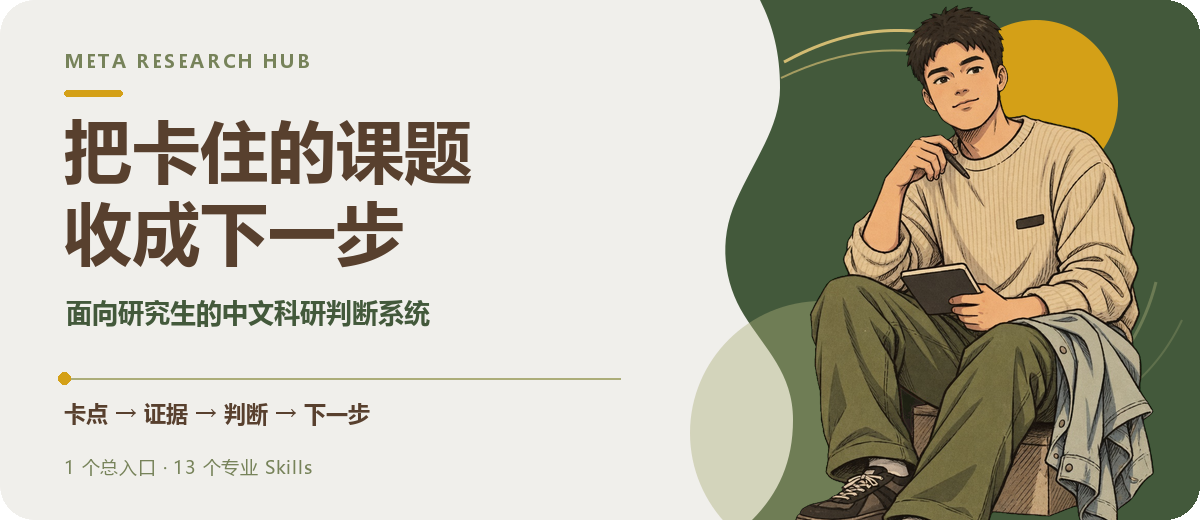
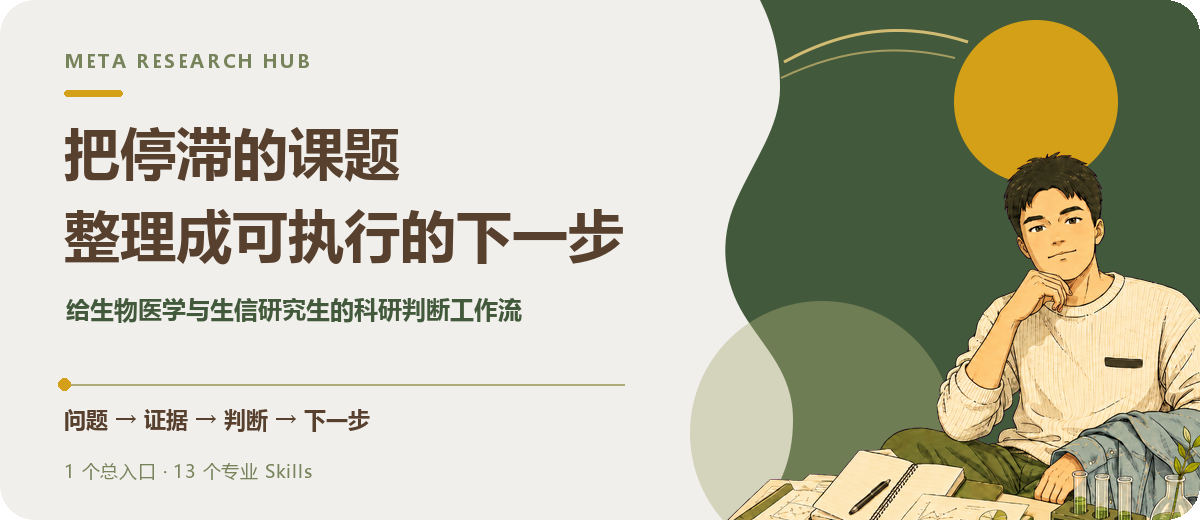
docs: rewrite homepage copy and refresh hero assets
Replace empty single-character homepage verbs, refresh hero from web ChatGPT, and keep workflow path as 问题 / 证据 / 判断 / 下一步.

diff --git a/README.md b/README.md
@@ -1,175 +1,171 @@
 <p align="center">
-  <img src="./assets/readme/hero.png" width="100%" alt="Meta Research Hub，把卡住的课题收成下一步">
+  <img src="./assets/readme/hero.png" width="100%" alt="把停滞的课题整理成可执行的下一步">
 </p>
 
 <p align="center">
-  给研究生用的 AI 科研判断工作流。很强，也足够具体。<br />
-  1 个总入口，13 个专业 Skills，把卡住的课题收成可以推进的下一步。
+  给生物医学与生信研究生的 AI 科研判断工作流。严谨具体，聚焦执行。<br />
+  1 个总入口与 13 个专业 Skills，把停滞的课题整理成可以执行的下一步。
 </p>
 
 <p align="center">
   <code>AI 辅助科研</code>
-  <code>研究生痛点</code>
-  <code>判断工作流</code>
+  <code>研究生科研困境</code>
+  <code>科研判断工作流</code>
   <code>1 个总入口 · 13 个专业 Skills</code>
 </p>
 
-## 研究生真正卡住的地方
+## 研究生使用 AI 科研时的真实困境
 
-把课题丢给 AI 之后，最常见的结果是收回来一长段像那么回事的文字。文献列了，方法也堆了，明天到底先做什么，仍然不清楚。
+把课题输入给大模型之后，最常见的结果是得到一长段看起来很有道理的文字。文献列全了，分析方法也列满了，明天到达实验室到底先做什么，依然不清楚。
 
-科研判断还不稳的人，看不出模型有没有把相关写成因果，也看不出这段话有没有把别人的结论当成自己的课题。AI 也还不熟的人，要么把模型当老师傅，要么不敢把真实卡点交出去。两边都不熟的时候，痛点会叠在一起。模型越会写，人越容易被带着跑。
+科研判断还不稳的研究生，难以识别模型是否把相关性写成了因果关系，也难以识别回答是否把别人的文献结论当成了自己课题的既成事实。对 AI 工具不够熟悉的人，容易将模型当成不会犯错的导师，或者不知道如何把真实的科研阻碍准确表达出来。这两层困扰叠加在一起，模型文字生成能力越强，研究者越容易偏离核心主线。
 
-生物医学和生信方向尤其明显。文献、结果和可选的下一步同时堆在面前，图表和分析一进入细节，原来的问题就看不见了。
+在生物医学和生物信息学方向，这种困扰尤为突出。文献背景、组学数据、差异基因与实验候选分子同时呈现在眼前，分析一旦陷入细枝末节，最初需要回答的科学问题反而变得模糊。
 
-## 这套工作流有多强
+## 这套工作流为什么强大
 
-我把从入门、文献、定题，一直到开题、论文和答辩的判断顺序，写成 1 个总入口加 13 个专业 Skills。装进 Agent 之后，它会先锁定当前最值得回答的问题，再把这一步交给对的专业 Skill。每次都要求落到当前判断、下一项工作和停止条件。
+这套工作流把从科研入门、文献研读、课题定题，到开题论证、假说验证、论文写作与答辩毕业的完整判断逻辑，写成 1 个总入口与 13 个专业 Skills。配置到 Agent 之后，它会先锁定当前最值得回答的科学问题，再将具体任务交给匹配的专业 Skill，明确当前判断、下一步产出与停止条件。
 
-这套工作流很强，因为它管的是 AI 辅助科研里最容易失控的判断顺序。研究生不必先成为方法专家，也不必先把提示词练熟。把卡点说清楚，Agent 就会按这套顺序往下走。我在真实课题推进里反复用过这套顺序，后来才把它写成可以安装的 Skills。
+这套工作流的强大之处，在于它规范了 AI 辅助科研中最容易失控的判断次序。研究生不需要先成为所有分析方法的专家，也不需要花费大量时间钻研复杂的 Prompt 技巧。只要把课题现状与阻碍讲清楚，Agent 就会依照严谨的科学逻辑逐步剖析。
 
-复杂问题走 [`meta-research-hub`](./skills/meta-research-hub/)。某一段已经明确时，也可以单独启用对应的专业 Skill。
+遇到复杂综合问题，从 [`meta-research-hub`](./skills/meta-research-hub/) 开始。当某个研究环节的目标已经非常明确时，也可以随时启用对应的专业 Skill。
 
-## 你第一次会得到什么
+## 每次对话拿到的四项明确结果
 
-启用总入口并说清卡点之后，第一次就会拿到这四项。
+启用总入口并说明当前科研阻碍之后，每次对话都会得到四项明确内容。
 
-- 现在最值得先回答的问题
-- 已有证据能支持什么，缺口在哪里
-- 下一步具体工作，以及完成时应看到什么
-- 不同结果分别怎样处理，包括继续或调整，缩小目标、转向，或者停止
+- 当前最值得优先回答的科学问题
+- 已有证据能够支持什么，关键缺口在哪里
+- 下一步的具体工作，以及完成时应当获得的产出
+- 不同实验或分析结果对应的处理方案，包括继续、调整、缩小目标、转向或者停止
 
-有了这四项，AI 就不再只是在写一段漂亮回复。它会给出可执行的下一步。问题已经明确时，不必把 13 个专业 Skills 从头用到尾。
-
-> 当前问题 → 已有证据 → 关键判断 → 下一步
+得到这四项输出，AI 输出的就不再是一段泛泛而谈的文字，而是清晰可执行的行动方案。
 
 <p align="center">
-  <img src="./assets/readme/workflow.svg" width="100%" alt="从卡点、证据、判断走到下一步">
+  <img src="./assets/readme/workflow.svg" width="100%" alt="从问题、证据、判断到下一步">
 </p>
 
-## 总入口怎么工作
+## 总入口的工作方式
 
-`meta-research-hub` 是总入口。大家可以直接说明课题进到哪一步，手里有哪些证据，现在难在哪里。时间和资源有什么限制，也可以一并说。不必先整理成完整方案。
+`meta-research-hub` 是整个工作流的总入口。你可以说明课题当前进展到哪一步，手里拥有哪些实验数据或分析结果，面临什么具体阻碍。时间周期、样本数量与算力资源等现实限制也可以一并写明。
 
-它会定位当前最需要回答的问题，再从 13 个专业 Skills 里选择合适的思路。每次建议都会写明产出和它影响的判断，下一步怎样推进，以及继续或停止前能检查的条件。
+它会先定位当前阶段最需要解决的核心问题，再从 13 个专业 Skills 中匹配合适的研究思路。每次给出的建议都会写明预期产出、该产出如何影响后续判断、下一步具体操作以及继续或停止的检验条件。
 
-面对一批论文时，总入口会让 [`literature-mining`](./skills/literature-mining/) 先做横向比较，看不同名字的方法在输入、操作和输出上是否相近。再对关键论文做纵向拆解，把图和正文、图注和 Methods 整理成发现主线。逐篇核对输入和操作，以及筛选规则、输出语义和情境之后，才把方法标为已核验的功能等价。否则只写暂定功能相近，或推断待核实。
+面对一批文献时，总入口会调用 [`literature-mining`](./skills/literature-mining/) 进行横向比对，核查不同命名的方法在输入、操作与输出上是否功能等价。随后对核心文献展开纵向剖析，把图表、正文、图注与实验方法还原为清晰的发现主线。在逐篇核实筛选规则、输出语义与适用语境之前，不会轻易下定论。
 
-最后拿到的是一张带证据状态的方向地图。地图里的关系会写成观察或使用，以及支持、提示或待验证，不会把论文结论拼成当前课题的答案，也不会自动生成因果链。需要把地图用到当前课题时，再由 [`topic-convergence`](./skills/topic-convergence/) 结合自己的数据、目标和资源，筛一个值得先做的问题。如果地图还缺对象或来源，情境或读出也不清楚，会先选出一条最可核验、最可比的候选边，填一张最小验证卡，再决定是否回读文献或做预实验。
+最终梳理出来的是一张标明证据状态的研究方向图谱。图谱中的关系明确区分为观察发现、方法使用、初步支持、参考线索或尚待验证，不会把文献结论强行拼凑成当前课题的答案。当需要将图谱结论应用到自己的课题时，由 [`topic-convergence`](./skills/topic-convergence/) 结合自身数据与资源，筛选出一个值得优先验证的问题，制定最小验证方案。
 
-我写这套入口时，有几条判断顺序一直没变。文献用来学习问题怎样被发现、证据怎样一步步建立，并划定已知边界。项目自己的候选和结论，必须由项目自己的证据支撑。方法服务科学问题和论文主线，优先选高质量论文里常见、审稿人也熟悉的方案，并且要适合当前数据。CNS 正刊和大子刊只要有合理先例，就可以作为方法选择的基本背书。有限预算先投入能改变判断的工作。
+在这套工作流中，几条核心科研判断准则始终保持一致。文献用于学习科学问题如何被发现、证据如何逐步建立，并划定已知的科学边界。课题自身的假设与结论，必须由课题自身的数据和实验来支撑。分析方法服务于科学问题与论文主线，优先选用主流期刊中成熟、审稿人认可且适配当前数据的方案。有限的科研资源优先投入到能够改变核心判断的关键工作上。
 
 ## 13 个专业 Skills
 
-复杂问题从 [`meta-research-hub`](./skills/meta-research-hub/) 开始。问题已经明确时，进入对应的专业 Skill。
+面对综合科研问题，建议从 [`meta-research-hub`](./skills/meta-research-hub/) 开始。当研究任务已经具体明确时，可随时调用对应的专业 Skill。
 
 ### 发现与定题
 
-- [`research-entry`](./skills/research-entry/) 适合研一、博一或科研入门，写出第一段可执行的学习和研究路径。
-- [`literature-mining`](./skills/literature-mining/) 从高质量论文里学习问题怎样被发现、证据怎样建立，并寻找可核验的 GAP。需要时会比较不同论文实际完成的功能，重建单篇主线，给出带证据状态的方向地图。
-- [`topic-convergence`](./skills/topic-convergence/) 把过宽方向、一组候选或一项矛盾结果，缩小成可验证的科学问题。
-- [`innovation-judgment`](./skills/innovation-judgment/) 核对已知边界和实质重合，判断创新空间，并给出继续推进或调整方向的依据。
+- [`research-entry`](./skills/research-entry/) 适合研一博一或科研新手，理出第一阶段切实可行的学习与探索路径。
+- [`literature-mining`](./skills/literature-mining/) 研读高质量文献，学习问题如何被发现、证据如何建立，横向比对方法等价性，剖析单篇主线，整理标明证据状态的方向图谱，寻找可靠 GAP。
+- [`topic-convergence`](./skills/topic-convergence/) 将宽泛的研究方向、多组候选分子或相互矛盾的初步结果，聚焦凝练为具体可验证的科学问题。
+- [`innovation-judgment`](./skills/innovation-judgment/) 核对已知研究边界与实质重合度，评估创新空间，给出深化研究或调整方向的明确依据。
 
-### 假设与验证
+### 假说与验证
 
-- [`hypothesis-construction`](./skills/hypothesis-construction/) 把观察和候选关系写成可证伪假设，并列出竞争解释与判别预测。
-- [`mechanism-design`](./skills/mechanism-design/) 在表型或明确候选出现后，设计能区分竞争解释的机制验证方案。
-- [`causality-rescue`](./skills/causality-rescue/) 校准因果 claim 的表达强度，分清当前证据支持相关、必要还是充分，以及是否谈得上中介或直接作用。
-- [`pre-experiment-design`](./skills/pre-experiment-design/) 用规模可控的预实验，尽早判断候选或方法是否值得继续投入，并给出继续、调整或停止信号。
+- [`hypothesis-construction`](./skills/hypothesis-construction/) 将初步观察与关联现象转化为可证伪的科学假说，列出竞争性解释与判别性预测。
+- [`mechanism-design`](./skills/mechanism-design/) 在表型或候选分子明确后，设计能够区分竞争性假说的分子机制验证方案。
+- [`causality-rescue`](./skills/causality-rescue/) 校准结论中的因果表述强度，严格区分相关性、必要性、充分性、中介效应与独立效应。
+- [`pre-experiment-design`](./skills/pre-experiment-design/) 设计低成本、小规模的预实验方案，尽早判断候选分子或技术路线是否值得继续投入，明确继续、调整或放弃的信号。
 
 ### 写作与交付
 
-- [`grant-and-opening`](./skills/grant-and-opening/) 把科学问题和前期证据写成开题或标书，并写清目标、技术路线与风险。
-- [`sci-writing-and-revision`](./skills/sci-writing-and-revision/) 理清论文主线和 Figure 的证据顺序，并处理正文结构与审稿回复。
-- [`review-writing`](./skills/review-writing/) 搭建综述框架，区分文献结论、作者综合和待验证问题。
-- [`thesis-and-defense`](./skills/thesis-and-defense/) 围绕真实研究工作，整理学位论文、外审和答辩材料。
+- [`grant-and-opening`](./skills/grant-and-opening/) 将科学问题与前期证据整理为严谨的开题报告或基金标书，明确研究目标、技术路线与风险预案。
+- [`sci-writing-and-revision`](./skills/sci-writing-and-revision/) 梳理 SCI 论文主线与 Figure 图表的证据次序，优化正文逻辑结构，组织审稿意见回复。
+- [`review-writing`](./skills/review-writing/) 搭建高水平综述框架，清晰区分前人文献结论、本文综合观点与未来待解问题。
+- [`thesis-and-defense`](./skills/thesis-and-defense/) 围绕真实研究工作，整理学位论文篇章架构、盲审评阅要点与毕业答辩汇报内容。
 
 ### 投入与停止
 
-- [`research-mindset`](./skills/research-mindset/) 面对矛盾结果、有限资源或迟迟未收敛的问题，给出投入排序和停止标准，以及下一步决定。
+- [`research-mindset`](./skills/research-mindset/) 面对矛盾数据、长期停滞或有限科研资源，明确精力投入优先级，制定清晰的止损与停止标准。
 
-## 怎样安装
+## 安装方法
 
-把仓库安装进当前 Agent。
+将本仓库完整安装到当前 Agent 环境。
 
 ```bash
 npx skills add https://github.com/xiaojinlucky/skills
 ```
 
-也可以把 `https://github.com/xiaojinlucky/skills` 直接交给 Agent。安装后启用 `meta-research-hub`，再按问题需要启用专业 Skill。无需额外配置。它是面向研究思路的文本 Skill，可在支持该格式的 Agent 环境中使用。检索、分析、实验和写作仍由相应工具完成。
+也可以将仓库地址 `https://github.com/xiaojinlucky/skills` 告知支持该规范的 Agent。安装后首先启用 `meta-research-hub`，再根据课题需要调用相应的专业 Skill。本套工具是一套规范科研思路的指令体系，无需额外环境配置。文献检索、数据分析、湿实验操作与论文排版仍由对应的专业工具完成。
 
-## 第一次怎么问
+## 30 秒提问模板
 
-先启用 `meta-research-hub`。大家把课题和难题说清楚即可，也可以复制下面这段，用大约 30 秒补完空缺。
+启用 `meta-research-hub` 后，明确说明你的课题现状与困惑即可。也可以复制下方模板，花大约 30 秒填入核心信息。
 
 ```text
-请用 meta-research-hub 协助我把卡住的课题收成下一步。
+请用 meta-research-hub 协助我把当前停滞的课题整理成可执行的下一步。
 
-课题或工作阶段：
+【课题背景与当前阶段】
 [在这里补充]
 
-已有证据和已经做过的工作：
+【已有证据与已完成工作】
 [在这里补充]
 
-当前卡点：
+【当前遇到的核心阻碍】
 [在这里补充]
 
-时间、样本、数据和分析资源限制：
+【时间周期、样本数量、数据规模与算力限制】
 [在这里补充]
 
-只提供公开或已脱敏的材料。未发表课题和原始数据，以及个人信息和私人路径，不要直接上传到外部服务。
+特别说明：只提供公开或已脱敏材料。未发表数据、原始测序文件与个人隐私信息请勿上传。
 
-请先给出下面四件事。
-1. 现在最值得回答的问题是什么
+请优先给出以下四项内容：
+1. 当前最值得优先回答的科学问题
 2. 已有证据支持什么，关键缺口在哪里
-3. 下一步会产生什么产出，改变哪个判断
-4. 不同结果分别对应继续、调整、缩小目标、转向或停止
+3. 下一步具体做什么，完成后预期获得什么产出，该产出改变什么判断
+4. 出现不同结果时，分别对应继续、调整、缩小目标、转向还是停止
 
-文献和高质量论文请优先用于寻找 GAP，学习问题怎样被发现、证据怎样建立。
-方法请优先选择高质量论文中常见、审稿人熟悉、适合当前数据并服务主线的方案。
-探索阶段可以调整方法、参数或展示来寻找线索，但请保留关键选择，
-区分探索性结果与确认性结论，不制造信号，也不隐藏决定性反证。
+文献请优先用于寻找真实 GAP，学习问题如何被发现与证据如何建立。
+分析方法请优先选用主流文献常见、审稿人认可且适配当前数据的方案。
+区分探索性分析与确认性证据，不人为修饰信号，也不回避关键反证。
 ```
 
 <details>
-<summary><strong>三个常见场景怎么问</strong></summary>
+<summary><strong>三个常见科研场景对话模板</strong></summary>
 
-### 从文献找 GAP
+### 场景一 从文献中寻找真实 GAP
 
 ```text
-我有一个大方向，但还没有具体课题。
-请先重建高质量论文中的问题怎样被发现、怎样一步步建立证据和留下未解之处，
-再结合我的方向寻找可以核验的候选问题。
-不要把论文已有结论直接当成我的研究答案。
+我目前有一个大致的研究方向，但尚未确定具体的研究课题。
+请协助我剖析高质量文献中科学问题是如何被发现的，证据是如何逐步建立并留下未解之处的。
+请结合我的方向寻找可以检验的候选问题，不要把文献已有结论直接作为我课题的研究答案。
 ```
 
-### 结果互相矛盾或不显著
+### 场景二 分析结果相互矛盾或不显著
 
 ```text
-我的不同分析得到了相反方向的结果，或者当前结果没有达到预期。
-请先判断哪一个问题最可能改变课题主线，再给出最值得先做的一项复核。
-如果有必要调整方法或参数，请说明它是探索性判断还是确认性证据。
+我的不同生信分析流程得到了相反方向的结果，或者初步实验结果未达到预期。
+请先评估哪一个疑点最可能影响课题核心主线，并给出最值得优先复核的一项分析或实验。
+如果需要调整参数或算法，请明确说明该调整属于探索性分析还是确认性证据。
 ```
 
-### 论文不知道什么时候该停
+### 场景三 论文修改不知道何时可以停止
 
 ```text
-我的主要结果已经齐全，但论文还在反复修改。
-请先整理核心 claim 和 Figure 的证据顺序，再按对结论的影响决定补充工作先后。
-请明确哪些补充会改变结论，哪些只会增加细节，并给出可以停止的标准。
+我的核心实验与生信分析已经基本完成，但论文还在反复修改，不确定是否需要继续补充实验。
+请先梳理核心 claim 与 Figure 的证据次序，评估各项潜在补充工作对核心结论的影响程度。
+请明确区分哪些工作会实质性改变结论，哪些工作仅增加修饰细节，并给出可以定稿停止的标准。
 ```
 
 </details>
 
-## 它不替代什么
+## 明确的使用边界
 
-这套 Skills 用来整理科研问题、证据与下一步。它不能代替真实实验和实验平台 SOP，也不能代替伦理审批、临床诊疗或正式统计审查，更不能保证论文发表。开题和标书不预测中标，创新判断也不承诺期刊层级。学位论文仍须按当前学校和院系的官方规则核对。
+这套 Skills 专注于规范科研思路、梳理证据链条与明确下一步行动。它不能替代真实的实验室操作与生物安全 SOP，不能替代伦理审查、临床医学诊断或正式的生物统计学核验，也不能保证论文发表或基金中标。学位论文仍须严格遵循所在高校和科研院所的官方培养要求。
 
-涉及代码和正式数据分析，或图表制作、实验执行时，请使用相应的专业工具。本系列负责让这些工作围绕清楚的问题、证据和主线展开。
+在编写代码、运行生信流水线、处理原始测序数据或进行实验室操作时，请使用对应的专用工具与生物学实验平台。本系列 Skills 的核心作用，是让所有技术工作始终围绕清晰的科学问题与证据链条展开。
 
 ---
 
 <p align="center">
-  现在就从一句话开始<br />
-  <strong>我现在卡在……，手里有……，想先判断……</strong>
+  现在就从一句话开始交流<br />
+  <strong>我现在在做……，手里有……数据或证据，想先判断……</strong>
 </p>
